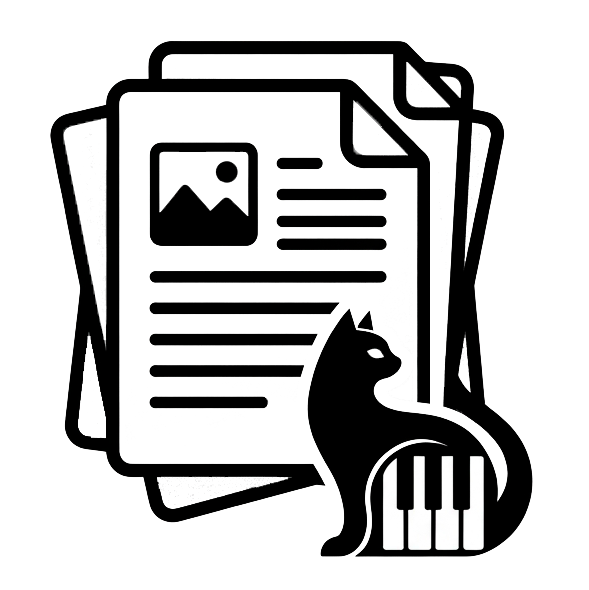
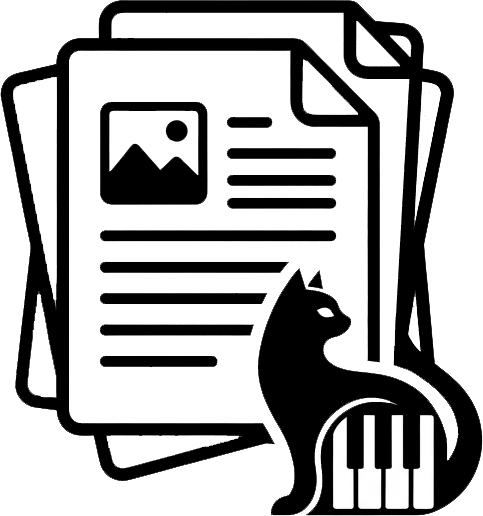
fix(ui): protect saved blocks and text excerpts
Release-note: Indent nested sections and align navigation icons.
Release-note: Confirm deletion of favorite and categorized blocks.
Release-note: Show block titles and category names before deletion.
Release-note: Keep confirmation keyboard focus and allow retry.
Release-note: Preserve selected text for the right-click Copy menu.
Release-note: Copy only the selected excerpt to the clipboard.
Release-note: Clear text selection when clicking outside it.
Release-note: Show large artwork in the installer sidebar.
Release-note: Preserve the small installer and application icons.

diff --git a/tests/e2e/app.spec.ts b/tests/e2e/app.spec.ts
@@ -28,6 +28,46 @@ test('preserves work across window hiding and saves interface preferences', asyn
     await win.getByRole('textbox', { name: 'Название', exact: true }).fill('Текст');
     await win.getByRole('textbox', { name: 'Содержимое', exact: true }).fill('Содержимое пользователя');
     await win.getByRole('dialog', { name: 'Новый блок' }).getByRole('button', { name: 'Создать', exact: true }).click();
+    const originalContent = win.locator('.item-card-content').getByText('Содержимое пользователя', { exact: true });
+    await originalContent.waitFor();
+    await app.evaluate(({ Menu }) => {
+      const original = Menu.buildFromTemplate;
+      const state = globalThis as unknown as { excerptMenu?: Electron.Menu; restoreMenu?: () => void };
+      Menu.buildFromTemplate = (template) => {
+        const menu = original.call(Menu, template);
+        state.excerptMenu = menu;
+        return menu;
+      };
+      state.restoreMenu = () => { Menu.buildFromTemplate = original; };
+    });
+    const excerptPoint = await originalContent.evaluate((node) => {
+      const range = document.createRange();
+      range.setStart(node.firstChild!, 0);
+      range.setEnd(node.firstChild!, 10);
+      window.getSelection()!.removeAllRanges();
+      window.getSelection()!.addRange(range);
+      const rect = range.getBoundingClientRect();
+      return { x: rect.left + 4, y: rect.top + rect.height / 2 };
+    });
+    await win.mouse.click(excerptPoint.x, excerptPoint.y, { button: 'right' });
+    await expect.poll(() => app.evaluate(() => (globalThis as unknown as { excerptMenu?: Electron.Menu }).excerptMenu?.items[0].label)).toBe('Копировать');
+    expect(await app.evaluate(({ clipboard }) => {
+      const state = globalThis as unknown as { excerptMenu: Electron.Menu; restoreMenu: () => void };
+      state.excerptMenu.items[0].click();
+      state.excerptMenu.closePopup();
+      state.restoreMenu();
+      return clipboard.readText();
+    })).toBe('Содержимое');
+    const originalCard = win.locator('.item-card').filter({ has: originalContent });
+    await originalCard.getByRole('button', { name: 'В избранное', exact: true }).click();
+    await originalCard.getByRole('button', { name: 'Удалить', exact: true }).click();
+    await expect(win.getByRole('alertdialog')).toContainText('Блок добавлен в избранное.');
+    await win.screenshot({ path: test.info().outputPath('protected-delete-ru.png') });
+    await win.keyboard.press('Tab');
+    await expect(win.getByRole('alertdialog').getByRole('button', { name: 'Удалить', exact: true })).toBeFocused();
+    await win.keyboard.press('Tab');
+    await expect(win.getByRole('alertdialog').getByRole('button', { name: 'Отмена', exact: true })).toBeFocused();
+    await win.getByRole('alertdialog').getByRole('button', { name: 'Отмена', exact: true }).click();
     const search = win.getByPlaceholder('Поиск по буферу обмена...');
     await search.fill('пользователя');
     await win.getByRole('button', { name: 'Избранное', exact: true }).click();
@@ -69,8 +109,10 @@ test('preserves work across window hiding and saves interface preferences', asyn
     await hideAndShow();
     await expect(win.getByRole('button', { name: 'Categories', exact: true })).toHaveAttribute('aria-expanded', 'true');
     await expect(win.getByRole('button', { name: 'Профиль', exact: true })).toBeVisible();
+    expect(await win.locator('.category-list').first().evaluate((node) => getComputedStyle(node).paddingLeft)).toBe('42px');
+    expect(await win.locator('.nav-row-main > svg').evaluateAll((nodes) => nodes.every((node) => node.getBoundingClientRect().width === 18 && node.getBoundingClientRect().height === 18))).toBe(true);
     await expect(win.locator('.item-card-kind').getByText('Текст', { exact: true })).toBeVisible();
-    await expect(win.locator('.item-card-content')).toContainText('Содержимое пользователя');
+    await expect(win.locator('.item-card-content').filter({ hasText: 'Содержимое пользователя' })).toBeVisible();
 
     const sample = path.join(profile, 'sample.txt');
     fs.writeFileSync(sample, 'example');

diff --git a/tests/unit/renderer/App.test.tsx b/tests/unit/renderer/App.test.tsx
@@ -1,7 +1,7 @@
 /**
  * @jest-environment jsdom
  */
-import { fireEvent, render, screen } from '@testing-library/react';
+import { fireEvent, render, screen, waitFor, within } from '@testing-library/react';
 import { App } from '../../../src/renderer/App';
 import type { CopycatAPI } from '../../../src/shared/types';
 import { useClipboardStore } from '../../../src/renderer/store/useClipboardStore';
@@ -35,6 +35,58 @@ beforeEach(() => {
 });
 
 describe('App', () => {
+  it.each([
+    { starred: true, tags: [], expected: 'Блок добавлен в избранное.' },
+    { starred: false, tags: ['Проект'], expected: 'Блок включён в категории: Проект.' },
+  ])('protects membership before deletion: $expected', async ({ starred, tags, expected }) => {
+    (window.copycat.getItems as jest.Mock).mockResolvedValue([{
+      id: 7, type: 'text', title: null, content: 'protected', sourceApp: null,
+      createdAt: Date.now(), sortOrder: null, starred, pinned: false, tags,
+    }]);
+    render(<App />);
+    await screen.findByText('protected');
+    fireEvent.click(screen.getByRole('button', { name: 'Удалить' }));
+    expect(screen.getByRole('alertdialog')).toHaveTextContent(expected);
+    fireEvent.keyDown(window, { key: 'Escape' });
+    expect(screen.queryByRole('alertdialog')).not.toBeInTheDocument();
+    expect(window.copycat.deleteItem).not.toHaveBeenCalled();
+    expect(window.copycat.hideWindow).not.toHaveBeenCalled();
+  });
+  it('confirms protected deletion, retains category names, and allows retry', async () => {
+    (window.copycat.getItems as jest.Mock).mockResolvedValue([{
+      id: 9, type: 'text', title: 'Important', content: 'protected content', sourceApp: null,
+      createdAt: Date.now(), sortOrder: null, starred: true, pinned: false, tags: ['Профиль', 'Work'],
+    }]);
+    (window.copycat.deleteItem as jest.Mock).mockRejectedValueOnce(new Error('busy')).mockResolvedValueOnce(undefined);
+    render(<App />);
+    await screen.findByText('protected content');
+    fireEvent.click(screen.getByRole('button', { name: 'Удалить' }));
+    let dialog = screen.getByRole('alertdialog');
+    expect(dialog).toHaveTextContent('Блок добавлен в избранное.');
+    expect(dialog).toHaveTextContent('Профиль, Work');
+    expect(window.copycat.deleteItem).not.toHaveBeenCalled();
+    fireEvent.click(within(dialog).getByRole('button', { name: 'Отмена' }));
+    expect(screen.queryByRole('alertdialog')).not.toBeInTheDocument();
+    fireEvent.click(screen.getByRole('button', { name: 'Удалить' }));
+    dialog = screen.getByRole('alertdialog');
+    fireEvent.click(within(dialog).getByRole('button', { name: 'Удалить' }));
+    expect(await screen.findByRole('alert')).toHaveTextContent('Не удалось удалить блок.');
+    fireEvent.click(within(dialog).getByRole('button', { name: 'Удалить' }));
+    await waitFor(() => expect(screen.queryByRole('alertdialog')).not.toBeInTheDocument());
+    expect(window.copycat.deleteItem).toHaveBeenCalledTimes(2);
+  });
+
+  it('deletes an ordinary block without a confirmation', async () => {
+    (window.copycat.getItems as jest.Mock).mockResolvedValue([{
+      id: 3, type: 'text', title: null, content: 'ordinary', sourceApp: null,
+      createdAt: Date.now(), sortOrder: null, starred: false, pinned: false, tags: [],
+    }]);
+    render(<App />);
+    await screen.findByText('ordinary');
+    fireEvent.click(screen.getByRole('button', { name: 'Удалить' }));
+    expect(window.copycat.deleteItem).toHaveBeenCalledWith(3);
+    expect(screen.queryByRole('alertdialog')).not.toBeInTheDocument();
+  });
   it('keeps search and an open block when the window becomes hidden', async () => {
     (window.copycat.getItems as jest.Mock).mockResolvedValue([{
       id: 1, type: 'text', title: null, content: 'draft', sourceApp: null,

diff --git a/src/renderer/App.tsx b/src/renderer/App.tsx
@@ -9,6 +9,8 @@ import { SettingsDialog } from './components/SettingsDialog';
 import { ConfirmDialog } from './components/ConfirmDialog';
 import { useSelectionDismiss } from './useSelectionDismiss';
 import { useLanguage, useT } from './i18n';
+import { itemDisplayTitle } from './components/ItemCard';
+import type { ClipboardItem } from '../shared/types';
 
 export function App() {
   const t = useT();
@@ -76,6 +78,44 @@ export function App() {
 
   const [askNavOrder, setAskNavOrder] = useState(false);
   const [askItemOrder, setAskItemOrder] = useState(false);
+  const [deleteTarget, setDeleteTarget] = useState<ClipboardItem | null>(null);
+  const [deleting, setDeleting] = useState(false);
+  const [deleteError, setDeleteError] = useState(false);
+
+  function requestDelete(id: number) {
+    const item = items.find((entry) => entry.id === id);
+    if (!item) return;
+    if (item.starred || item.tags.length > 0) {
+      setDeleteError(false);
+      setDeleteTarget(item);
+    } else {
+      void deleteItem(id);
+    }
+  }
+
+  async function confirmDelete() {
+    if (!deleteTarget || deleting) return;
+    setDeleting(true);
+    try {
+      await deleteItem(deleteTarget.id);
+      setDeleteTarget(null);
+    } catch {
+      setDeleteError(true);
+    } finally {
+      setDeleting(false);
+    }
+  }
+
+  useEffect(() => {
+    if (!deleteTarget) return;
+    const cancel = (event: KeyboardEvent) => {
+      if (event.key !== 'Escape') return;
+      event.stopImmediatePropagation();
+      if (!deleting) setDeleteTarget(null);
+    };
+    window.addEventListener('keydown', cancel, true);
+    return () => window.removeEventListener('keydown', cancel, true);
+  }, [deleteTarget, deleting]);
 
   useSelectionDismiss();
 
@@ -195,7 +235,7 @@ export function App() {
           onCompose={() => composeItem(true)}
           onCopy={copyItem}
           onToggleStar={toggleStar}
-          onDelete={deleteItem}
+          onDelete={requestDelete}
           onExpand={expandItem}
           onEdit={editItem}
           onMove={moveItem}
@@ -253,6 +293,25 @@ export function App() {
           onNavReorderStart={startNavReorder}
           categories={categories}
           onClearHistory={clearHistory}
+        />
+      )}
+
+      {deleteTarget && (
+        <ConfirmDialog
+          title={t('Удалить блок?')}
+          message={[
+            `«${itemDisplayTitle(deleteTarget, language)}».`,
+            deleteTarget.starred ? t('Блок добавлен в избранное.') : '',
+            deleteTarget.tags.length ? `${t('Блок включён в категории:')} ${deleteTarget.tags.join(', ')}.` : '',
+            t('Блок будет удалён из истории и всех разделов.'),
+          ].filter(Boolean).join(' ')}
+          confirmLabel={t('Удалить')}
+          cancelLabel={t('Отмена')}
+          danger
+          busy={deleting}
+          error={deleteError ? t('Не удалось удалить блок. Попробуйте ещё раз.') : null}
+          onConfirm={() => void confirmDelete()}
+          onCancel={() => setDeleteTarget(null)}
         />
       )}
 

diff --git a/src/renderer/components/ConfirmDialog.tsx b/src/renderer/components/ConfirmDialog.tsx
@@ -1,4 +1,5 @@
 import { Overlay } from './Overlay';
+import { useEffect, useId, useRef } from 'react';
 
 interface ConfirmDialogProps {
   title: string;
@@ -28,13 +29,35 @@ export function ConfirmDialog({
   busy = false,
   error,
 }: ConfirmDialogProps) {
+  const dialogRef = useRef<HTMLDivElement>(null);
+  const previousFocus = useRef(document.activeElement as HTMLElement | null);
+  const messageId = useId();
+  useEffect(() => {
+    function trapFocus(event: KeyboardEvent) {
+      if (event.key !== 'Tab') return;
+      const buttons = Array.from(dialogRef.current?.querySelectorAll<HTMLButtonElement>('button:not(:disabled)') ?? []);
+      if (!buttons.length) { event.preventDefault(); return; }
+      const first = buttons[0];
+      const last = buttons[buttons.length - 1];
+      if (event.shiftKey && (document.activeElement === first || !dialogRef.current?.contains(document.activeElement))) {
+        event.preventDefault(); last.focus();
+      } else if (!event.shiftKey && (document.activeElement === last || !dialogRef.current?.contains(document.activeElement))) {
+        event.preventDefault(); first.focus();
+      }
+    }
+    window.addEventListener('keydown', trapFocus, true);
+    return () => {
+      window.removeEventListener('keydown', trapFocus, true);
+      if (previousFocus.current?.isConnected) previousFocus.current.focus();
+    };
+  }, []);
   return (
     <Overlay onClose={() => {}}>
-      <div className="popup confirm-dialog" role="alertdialog" aria-label={title} aria-busy={busy}>
+      <div ref={dialogRef} className="popup confirm-dialog" role="alertdialog" aria-modal="true" aria-label={title} aria-describedby={messageId} aria-busy={busy}>
         <div className="popup-head">
           <div className="popup-title">{title}</div>
         </div>
-        <p className="confirm-message">{message}</p>
+        <p id={messageId} className="confirm-message">{message}</p>
         {error && <p className="field-hint" role="alert">{error}</p>}
         <div className="dialog-actions">
           <button type="button" className="button ghost" onClick={onCancel} disabled={busy} autoFocus>

diff --git a/src/renderer/i18n.ts b/src/renderer/i18n.ts
@@ -14,6 +14,11 @@ const english: Record<string, string> = {
   'Очистить историю': 'Clear history', 'Закрыть': 'Close', 'Отмена': 'Cancel',
   'Отменить': 'Cancel', 'Готово': 'Done', 'Создать': 'Create', 'Сохранить': 'Save',
   'Удалить': 'Delete', 'Добавить': 'Add', 'Название': 'Title',
+  'Удалить блок?': 'Delete block?',
+  'Блок добавлен в избранное.': 'This block is in Favorites.',
+  'Блок включён в категории:': 'This block belongs to categories:',
+  'Блок будет удалён из истории и всех разделов.': 'The block will be removed from history and all sections.',
+  'Не удалось удалить блок. Попробуйте ещё раз.': 'Could not delete the block. Try again.',
   'Название объекта': 'Object title', 'Название категории': 'Category name',
   'Новая категория': 'New category', 'Содержимое': 'Content',
   'Путь к файлу': 'File path', 'Путь к объекту': 'Object path',

diff --git a/src/renderer/useSelectionDismiss.ts b/src/renderer/useSelectionDismiss.ts
@@ -22,7 +22,16 @@ function clearSelection(): void {
  */
 export function useSelectionDismiss(): void {
   useEffect(() => {
-    function onPointerDown(): void {
+    function onPointerDown(event: MouseEvent): void {
+      // Preserve the excerpt for its native Copy menu, but only when the
+      // right-click actually lands inside a highlighted text rectangle.
+      const selection = window.getSelection();
+      if (event.button === 2 && selection && !selection.isCollapsed) {
+        for (let index = 0; index < selection.rangeCount; index++) {
+          const rects = selection.getRangeAt(index).getClientRects();
+          if (Array.from(rects).some((rect) => event.clientX >= rect.left && event.clientX <= rect.right && event.clientY >= rect.top && event.clientY <= rect.bottom)) return;
+        }
+      }
       // Unconditional: a press inside the highlight starts a fresh selection
       // there anyway, so clearing first costs nothing and removes the special
       // case that used to leave the old highlight behind.

diff --git a/tests/unit/renderer/useSelectionDismiss.test.tsx b/tests/unit/renderer/useSelectionDismiss.test.tsx
@@ -28,6 +28,17 @@ function fakeSelection(overrides: Partial<Selection> = {}) {
 afterEach(() => jest.restoreAllMocks());
 
 describe('useSelectionDismiss', () => {
+  it('keeps the excerpt for a right-click inside its highlighted rectangle', () => {
+    const removeAllRanges = fakeSelection({
+      rangeCount: 1,
+      getRangeAt: () => ({ getClientRects: () => [{ left: 10, right: 100, top: 10, bottom: 30 }] }) as unknown as Range,
+    });
+    const { getByTestId } = render(<Harness />);
+    fireEvent.mouseDown(getByTestId('text'), { button: 2, clientX: 20, clientY: 20 });
+    expect(removeAllRanges).not.toHaveBeenCalled();
+    fireEvent.mouseDown(getByTestId('text'), { button: 2, clientX: 110, clientY: 20 });
+    expect(removeAllRanges).toHaveBeenCalledTimes(1);
+  });
   it('drops the highlight when a press lands outside it', () => {
     const removeAllRanges = fakeSelection();
     const { getByTestId } = render(<Harness />);

diff --git a/src/renderer/index.css b/src/renderer/index.css
@@ -207,6 +207,12 @@ button:disabled {
   flex: 0 0 auto;
 }
 
+.nav-row-main > svg {
+  width: 18px;
+  height: 18px;
+  flex: 0 0 18px;
+}
+
 /* Plain rows gained a nested button for the eye; keep their original height. */
 .nav-item:not(.nav-row) {
   gap: 0;
@@ -293,7 +299,7 @@ button:disabled {
   display: flex;
   flex-direction: column;
   gap: 0;
-  padding-left: 30px;
+  padding-left: 42px;
   margin-top: 0;
 }
 
@@ -1264,6 +1270,7 @@ button:disabled {
 
 .confirm-message {
   margin: 0;
+  overflow-wrap: anywhere;
   font-size: 13px;
   line-height: 1.55;
   color: var(--text-dim);

diff --git a/src/main/context-menu.ts b/src/main/context-menu.ts
@@ -1,4 +1,4 @@
-import { Menu, type BrowserWindow } from 'electron';
+import { clipboard, Menu, type BrowserWindow } from 'electron';
 
 /**
  * Right-click "Копировать" for any text selection inside the renderer.
@@ -11,7 +11,7 @@ export function registerContextMenu(win: BrowserWindow, language: () => 'ru' | '
     Menu.buildFromTemplate([
       {
         label: language() === 'en' ? 'Copy' : 'Копировать',
-        click: () => win.webContents.copy(),
+        click: () => clipboard.writeText(params.selectionText),
       },
     ]).popup({ window: win });
   });

diff --git a/DESIGN.md b/DESIGN.md
@@ -60,6 +60,7 @@ The application logo comes from `resources/small/small.png`; the sidebar keeps i
 
 Creation offers text or an object reference where the section permits it. File subgroup creation locks the target type. Object selection uses the system picker and stores a path, not a duplicate. Favorite and category choices are visible before saving. Destructive history cleanup keeps favorites and categories excluded by default.
 Clicking the backdrop dismisses a read-only block preview; editors keep their draft until an explicit close action. Settings close controls have a 36px target, and overlays exclude underlying native window drag regions.
+Nested sidebar rows are indented beyond parent labels; main navigation icons share an 18px frame. Deleting a favorite or categorized block requires confirmation naming its memberships. Right-clicking selected text preserves the excerpt for the native Copy menu; clicking elsewhere clears it.
 
 ## Do's and Don'ts
 
